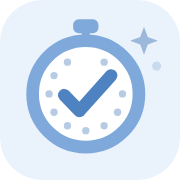
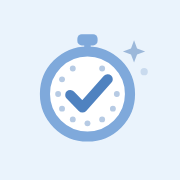
Make the tracker installable as a phone app and add code sign-in
Adds a web app manifest and icons so it installs to the home screen and
opens full screen, and a 6-digit code option for signing in inside the
installed app.

Claude-Session: https://claude.ai/code/session_01HXukui9FpTU6HQ3uUtLnwm

Changed region(s): [[0.1389, 0.0833, 0.9167, 0.8611], [0.5278, 0.4444, 0.5556, 0.4722], [0.5, 0.4722, 0.5278, 0.5]]

diff --git a/index.html b/index.html
@@ -10,6 +10,11 @@
 <link rel="icon" type="image/svg+xml" href="favicon.svg">
 <link rel="icon" type="image/png" sizes="32x32" href="favicon-32.png">
 <link rel="apple-touch-icon" href="apple-touch-icon.png">
+<link rel="manifest" href="manifest.webmanifest">
+<meta name="apple-mobile-web-app-capable" content="yes">
+<meta name="mobile-web-app-capable" content="yes">
+<meta name="apple-mobile-web-app-title" content="Timesheet">
+<meta name="apple-mobile-web-app-status-bar-style" content="default">
 <link rel="preconnect" href="https://fonts.googleapis.com">
 <link rel="stylesheet" href="https://fonts.googleapis.com/css2?family=DM+Serif+Display:ital@0;1&family=Pinyon+Script&family=Figtree:wght@400;500;600;700;800&family=JetBrains+Mono:wght@500&display=swap">
 <style>
@@ -280,6 +285,8 @@ td.r{text-align:right;font-family:var(--f-mono)}
 .login-card h1 em{font-family:var(--f-script);font-style:normal;font-size:1.35em;color:#2F4D7A;background:linear-gradient(100deg,#22406B 0%,#4E77AE 55%,#9CB8DA 100%);-webkit-background-clip:text;background-clip:text;-webkit-text-fill-color:transparent;padding:0 .06em}
 .login-card input{width:100%;min-height:46px;font-size:1rem;text-align:center}
 .login-card .go{width:100%;height:46px;margin:0}
+.codebox{display:grid;gap:8px;width:100%;margin-top:4px;padding-top:12px;border-top:1px dashed var(--line)}
+.codebox input{letter-spacing:.3em;font-family:var(--f-mono)}
 .mono-mark.big{width:64px;height:64px;font-size:1.9rem}
 .hint{margin:0;color:var(--muted);font-size:.88rem}
 .invite .inv-row{display:grid;grid-template-columns:1fr 1.2fr minmax(0,1fr) auto;gap:10px;align-items:end;margin-top:10px}
@@ -300,7 +307,7 @@ td.r{text-align:right;font-family:var(--f-mono)}
 @media (max-width:800px){.invite .inv-row{grid-template-columns:1fr}.person-row{grid-template-columns:1fr auto}.person-row .acts2{grid-column:1/-1;justify-content:flex-start}.signout{margin:0 0 0 8px}}
 </style>
 <script src="https://cdn.jsdelivr.net/npm/@supabase/supabase-js@2.49.4/dist/umd/supabase.min.js"></script>
-<script src="config.js?v=20261015-2321"></script>
+<script src="config.js?v=20261016-0634"></script>
 </head>
 <body>
 <div class="login-wrap" id="login" hidden>
@@ -312,6 +319,11 @@ td.r{text-align:right;font-family:var(--f-mono)}
     <input type="email" id="l-email" placeholder="you@example.com" required autocomplete="email">
     <button class="go" type="submit" id="l-go">Email me a sign-in link</button>
     <p class="hint" id="login-msg" role="status"></p>
+    <div class="codebox" id="codebox" hidden>
+      <label for="l-code" class="hint">Or type the 6-digit code from the email</label>
+      <input id="l-code" inputmode="numeric" autocomplete="one-time-code" maxlength="10" placeholder="123456">
+      <button class="btn primary" type="button" id="l-verify">Sign in with code</button>
+    </div>
   </form>
 </div>
 <div class="app" id="app" hidden>
@@ -327,7 +339,7 @@ td.r{text-align:right;font-family:var(--f-mono)}
     <div class="spacer"></div>
     <div class="person"><span id="person-wrap" hidden><label for="person">Showing</label>
     <select id="person"><option value="me">My time</option><option value="all">Everyone</option></select></span>
-    <button class="signout" id="signout" type="button">Sign out</button><small class="ver" id="ver">Updated 15 Oct 2026, 23:21</small></div>
+    <button class="signout" id="signout" type="button">Sign out</button><small class="ver" id="ver">Updated 16 Oct 2026, 06:34</small></div>
     <svg class="horizon" viewBox="0 0 220 70" preserveAspectRatio="none" aria-hidden="true"><path d="M0 34 Q27 26 55 34 T110 34 T165 34 T220 34" fill="none" stroke="var(--gold)" stroke-width="1"/><path d="M0 48 Q27 40 55 48 T110 48 T165 48 T220 48" fill="none" stroke="var(--rail-muted)" stroke-width="1"/><path d="M0 62 Q27 54 55 62 T110 62 T165 62 T220 62" fill="none" stroke="var(--rail-muted)" stroke-width="1" opacity=".6"/></svg>
   </nav>
 
@@ -446,6 +458,6 @@ td.r{text-align:right;font-family:var(--f-mono)}
 </div>
 
 <div class="toast" id="toast" role="status" aria-live="polite" hidden></div>
-<script src="app.js?v=20261015-2321"></script>
+<script src="app.js?v=20261016-0634"></script>
 </body>
 </html>

diff --git a/app.js b/app.js
@@ -487,8 +487,16 @@ $('#login-form').addEventListener('submit',async ev=>{
   $('#l-go').disabled=true;$('#login-msg').textContent='Sending...';
   const{error}=await sb.auth.signInWithOtp({email,options:{shouldCreateUser:true,emailRedirectTo:location.origin+location.pathname}});
   $('#l-go').disabled=false;
-  $('#login-msg').textContent=error?(/invite|database error/i.test(error.message)?'This email has not been invited yet. Ask Amira to invite you.':'Could not send the link: '+error.message):'Check your inbox for a sign-in link from Supabase. You can close this tab.';
+  if(!error){$('#codebox').hidden=false;}
+  $('#login-msg').textContent=error?(/invite|database error/i.test(error.message)?'This email has not been invited yet. Ask Amira to invite you.':'Could not send the link: '+error.message):'Check your inbox. Tap the link in the email, or type the code from it below. (On a phone app, use the code.)';
 });
+$('#l-verify').onclick=async()=>{
+  const email=$('#l-email').value.trim().toLowerCase(),token=$('#l-code').value.replace(/\s/g,'');if(!email||!token) return;
+  $('#l-verify').disabled=true;$('#login-msg').textContent='Checking...';
+  const{error}=await sb.auth.verifyOtp({email,token,type:'email'});
+  $('#l-verify').disabled=false;
+  if(error) $('#login-msg').textContent='That code did not work. Check it, or request a new email.';
+};
 $('#signout').onclick=async()=>{await sb.auth.signOut();location.reload();};
 
 let booted=false;
